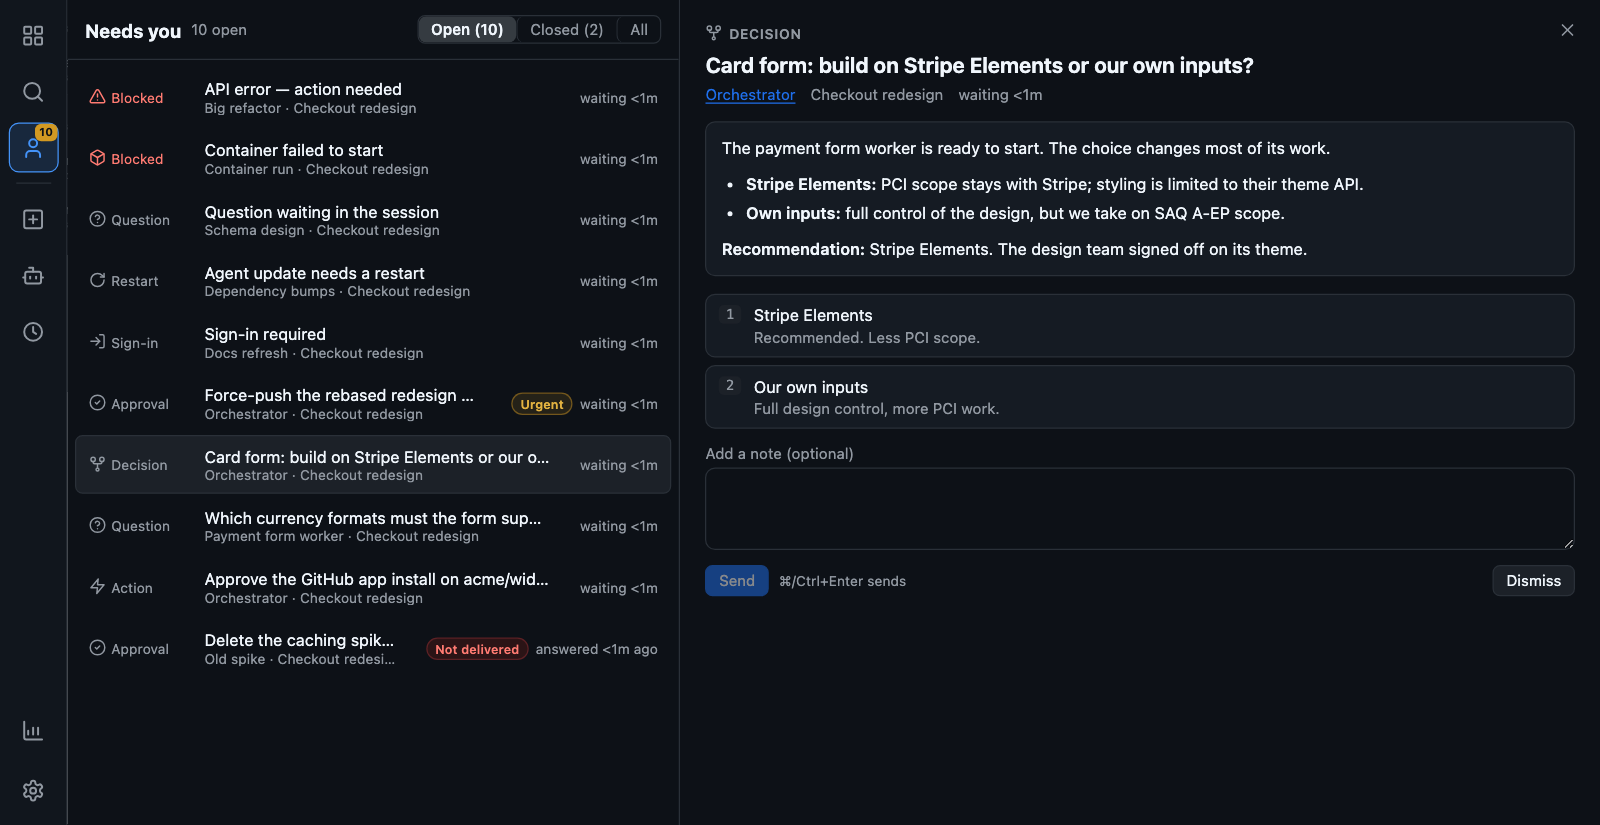
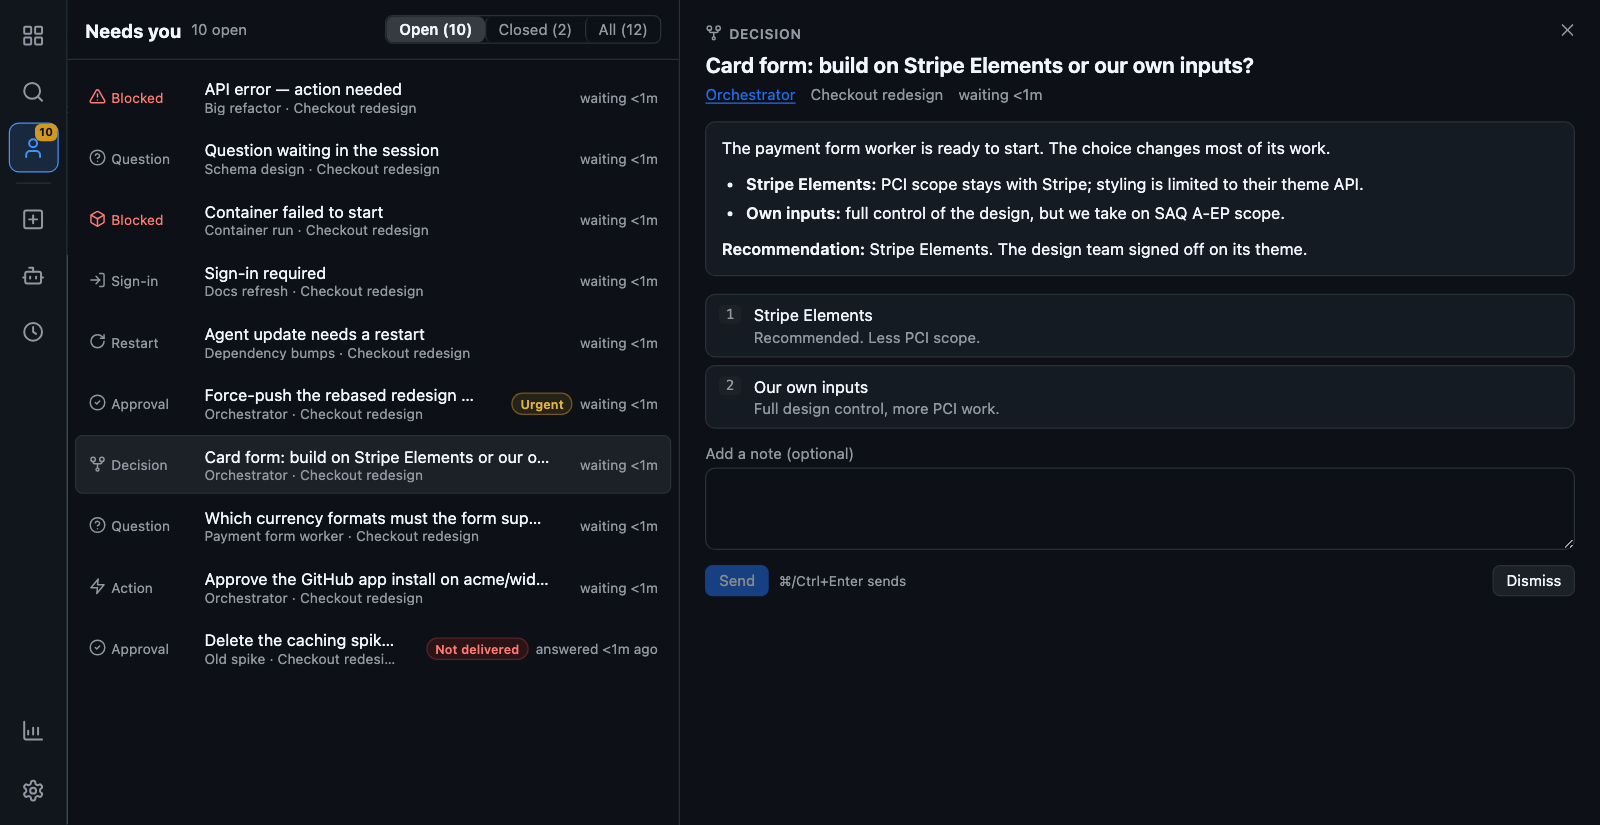
0.1.5: the All filter shows a count, like Open and Closed

diff --git a/public/inbox-view.test.js b/public/inbox-view.test.js
@@ -138,7 +138,7 @@ test('the filter buttons: a "Show" group, aria-pressed, counts, and each empty s
   const pressed = () => [...v.el.querySelectorAll('.ibx-filter')].map((b) => b.getAttribute('aria-pressed'));
   const labels = () => [...v.el.querySelectorAll('.ibx-filter')].map((b) => text(b));
   assert.deepEqual(pressed(), ['true', 'false', 'false'], 'it opens on Open');
-  assert.deepEqual(labels(), ['Open (0)', 'Closed (0)', 'All']);
+  assert.deepEqual(labels(), ['Open (0)', 'Closed (0)', 'All (0)']);
   assert.equal(text(v.q('.ibx-empty')), 'Nothing needs you right now.');
   v.filter('closed').click();
   assert.deepEqual(pressed(), ['false', 'true', 'false']);
@@ -153,7 +153,7 @@ test('the filter buttons: a "Show" group, aria-pressed, counts, and each empty s
   const old = item({ state: 'resolved', resolvedReason: 'expired', updatedAt: 10 * MIN, title: 'old' });
   const fresh = item({ state: 'resolved', resolvedReason: 'dismissed', updatedAt: 15 * MIN, title: 'fresh' });
   v.view.update(graphOf([old, fail, fresh, open]));
-  assert.deepEqual(labels(), ['Open (2)', 'Closed (2)', 'All']);
+  assert.deepEqual(labels(), ['Open (2)', 'Closed (2)', 'All (4)']);
   assert.deepEqual(v.rows().map((r) => text(r.querySelector('.ibx-row-title'))), ['open', 'failed', 'fresh', 'old'],
     'All: the Open list, then the Closed list');
   assert.deepEqual(v.rows().map((r) => r.classList.contains('ibx-closed-row')), [false, false, true, true]);

diff --git a/public/inbox-view.js b/public/inbox-view.js
@@ -738,10 +738,11 @@ export function createInboxView(el, api, {
     autoPick();
     setText(countEl, n ? `${n} open` : '');
     countEl.hidden = n === 0;
-    const counts = { open: n, closed: closed.length };
+    const counts = { open: n, closed: closed.length, all: n + closed.length };
+    const names = { open: 'Open', closed: 'Closed', all: 'All' };
     for (const b of filterBtns) {
       const f = b.dataset.filter;
-      setText(b, f === 'all' ? 'All' : `${f === 'open' ? 'Open' : 'Closed'} (${counts[f]})`);
+      setText(b, `${names[f]} (${counts[f]})`);
       setAttr(b, 'aria-pressed', String(f === filter));
     }
     const list = shown();

diff --git a/docs/specs/ws4-inbox-ui.md b/docs/specs/ws4-inbox-ui.md
@@ -44,7 +44,7 @@ The badge counts **open items** (contracts §4 `open`), not unread ones, and is 
 
 *List pane*, top to bottom:
 1. Header "Needs you" and the count "N open" (0.1.4; was "N waiting"), and the filters
-   **Open (n) · Closed (n) · All** (0.1.4). The `n` key selects the top item and focuses
+   **Open (n) · Closed (n) · All (n)** (0.1.4). The `n` key selects the top item and focuses
    its primary control. After an answer or dismiss the view moves on to the next item. (0.1.3: the
    **Next** button that also did this was removed at the human's request; the key stays.)
 2. **The queue**, ordered by cost of waiting. `queueOrder(items)` is a pure, exported and tested

diff --git a/docs/specs/fixes-0.1.4.md b/docs/specs/fixes-0.1.4.md
@@ -29,7 +29,7 @@ new item, and no X at one pane. e2e: a shot of the closed state.
 **Problem:** the closed items hide in a small collapsible strip under the queue.
 **Change:**
 - Replace the `<details>` strip with a segmented control in the list header:
-  **Open (n)** · **Closed (n)** · **All**. Buttons with `aria-pressed`, in a group with
+  **Open (n)** · **Closed (n)** · **All (n)**. Buttons with `aria-pressed`, in a group with
   `role="group"` and `aria-label="Show"`. It opens on **Open**.
 - **Open:** the queue, in `queueOrder` (unchanged), including failed deliveries.
 - **Closed:** resolved items, and answers still on their way ("sending"), sorted by **when they

diff --git a/docs/notes/ui.md b/docs/notes/ui.md
@@ -106,7 +106,7 @@ control router (a refused answer, for example) are the board's own and stay.
 
 ## Filters and the read-only view
 
-- **Open (n) · Closed (n) · All** (0.1.4, C2) replaced the "Recently resolved"
+- **Open (n) · Closed (n) · All (n)** (0.1.4, C2) replaced the "Recently resolved"
   strip. One listbox (`.ibx-queue`) shows the chosen list, and its aria-label
   follows the filter. The choice is kept in `localStorage` (`needsyou.filter`),
   inside try/catch, and an unknown value falls back to Open.

diff --git a/CHANGELOG.md b/CHANGELOG.md
@@ -1,6 +1,12 @@
 # Changelog
 
-## 0.1.4 (unreleased)
+## 0.1.5 (unreleased)
+
+### Changed
+
+- **All shows a count**, like Open and Closed: "All (12)" is open plus closed.
+
+## 0.1.4
 
 From the human's last round of ideas (`docs/specs/fixes-0.1.4.md`).
 
